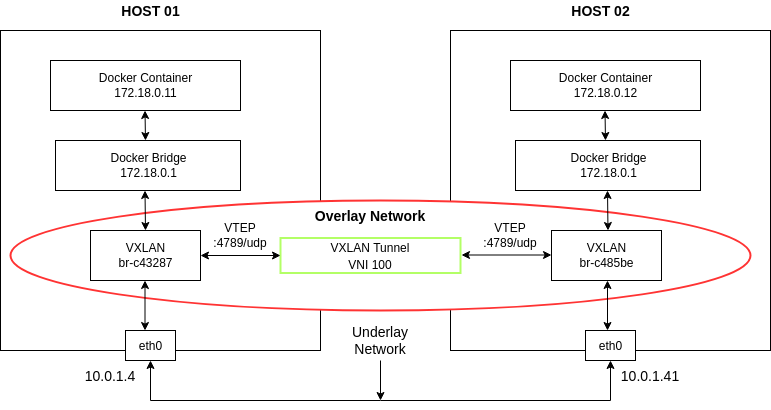
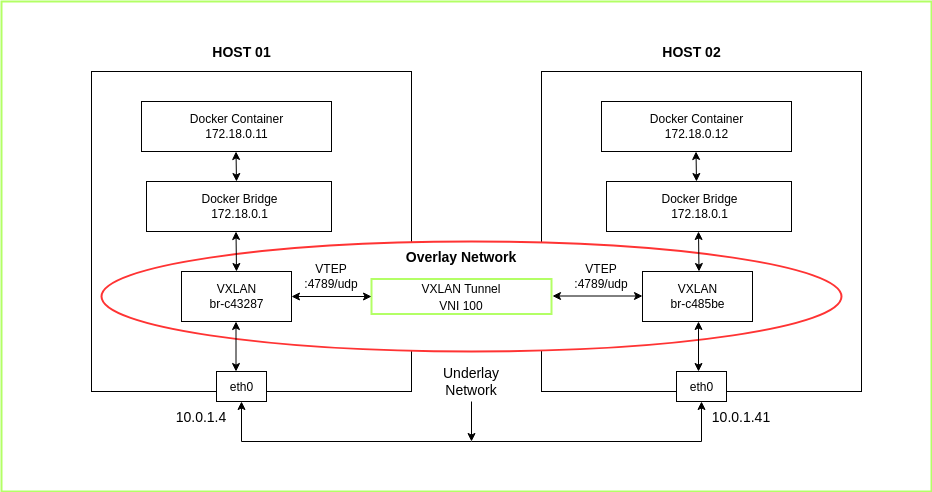
diagram updated

diff --git a/README.md b/README.md
@@ -2,5 +2,4 @@
 
 ![Project Diagram](https://github.com/faayam/vxlan-docker-hands-on/blob/main/vxlan-diagram.png)
 
-![Project Diagram](https://github.com/faayam/vxlan-docker-hands-on/blob/main/vxlan-diagram.svg)
 
